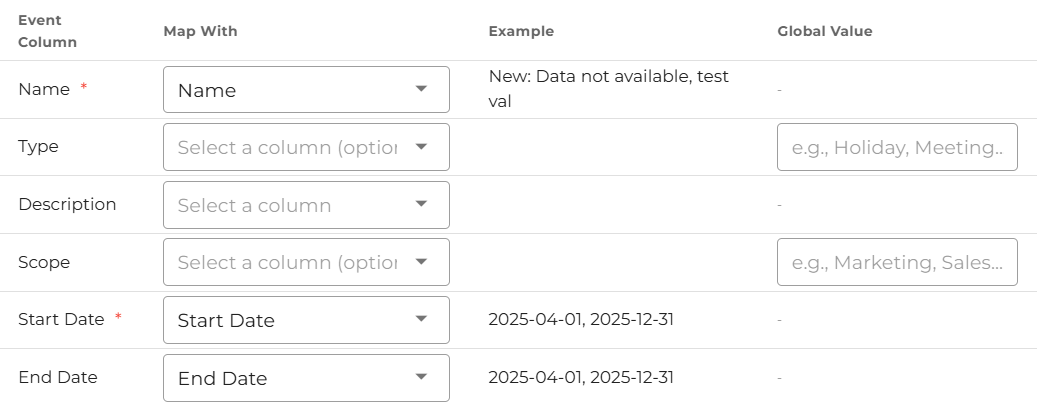
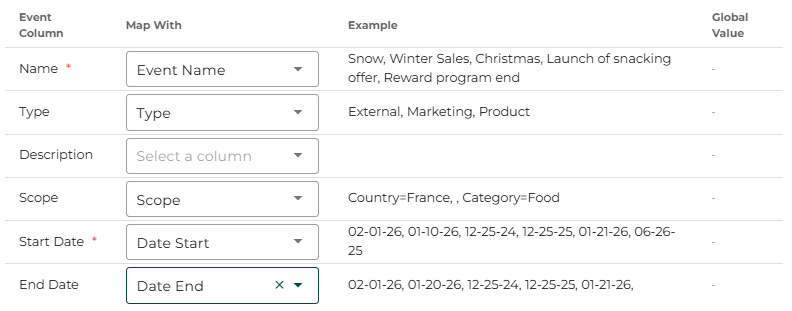
Enhance calendar creation documentation by adding expected structure for Scope field and updating the dataset calendar image.

diff --git a/core_app/new/calendar/calendar_creation.md b/core_app/new/calendar/calendar_creation.md
@@ -40,7 +40,11 @@ Optionally
 
 📝 **Description** – additional context about the event
 
-📊 **Scope** – a segment which allow you to apply the filters (e.g. you can have a Country Scope that allow when you filter on Switzerland to see the calendar events that impact only this segment). This field as also an impact on the Calendar interest score in the Compare integration.
+📊 **Scope** – a segment which allow you to apply the filters (e.g. you can have a Country Scope that allow when you filter on Switzerland to see the calendar events that impact only this segment). This field as also an impact on the Calendar interest score in the Compare integration. 
+
+<div class="info-box"> 
+Scope expected structure is `[Column_name]=[Event_Scope]`. For instance, `Country=France`. Note that `Column_name` should be the same column name used in the dataset where the Calendar will be added, so that Datama can make the link. If you have multiple scopes, you can separate them with a comma (e.g. `Country=France, Category=Food`).
+</div>
 
 <center><img src="{{site.url}}/{{site.baseurl}}/core_app/new/calendar/images/dataset_calendar.png"/></center>
 